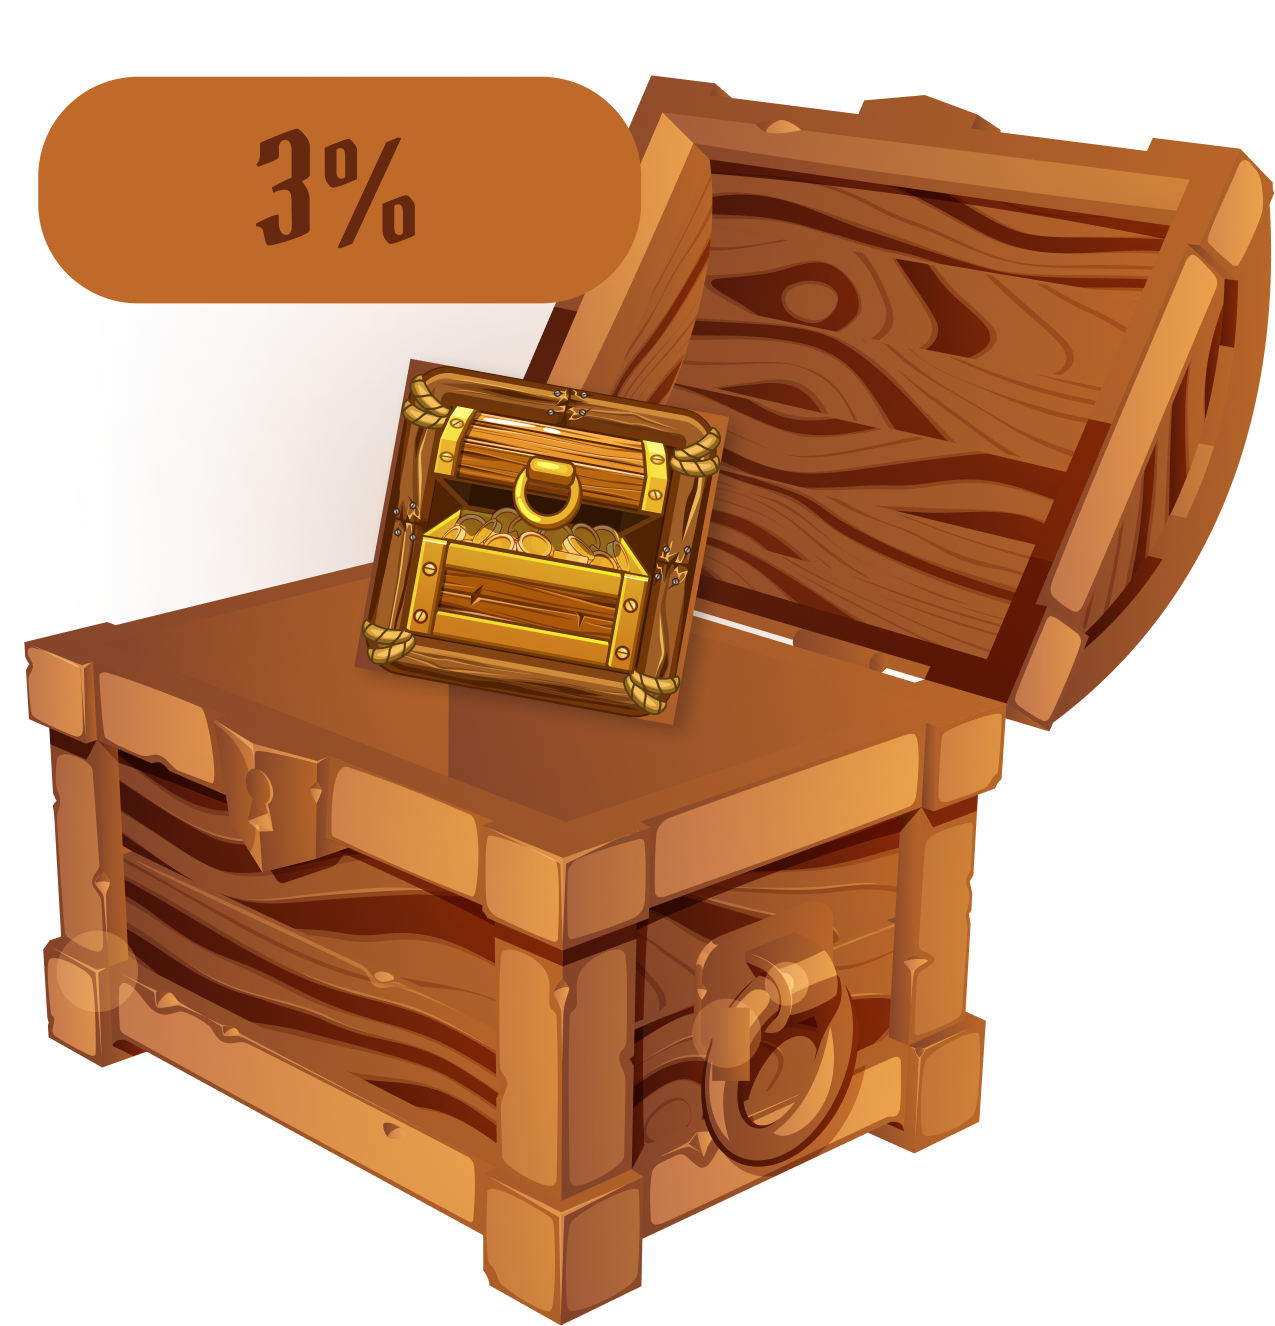
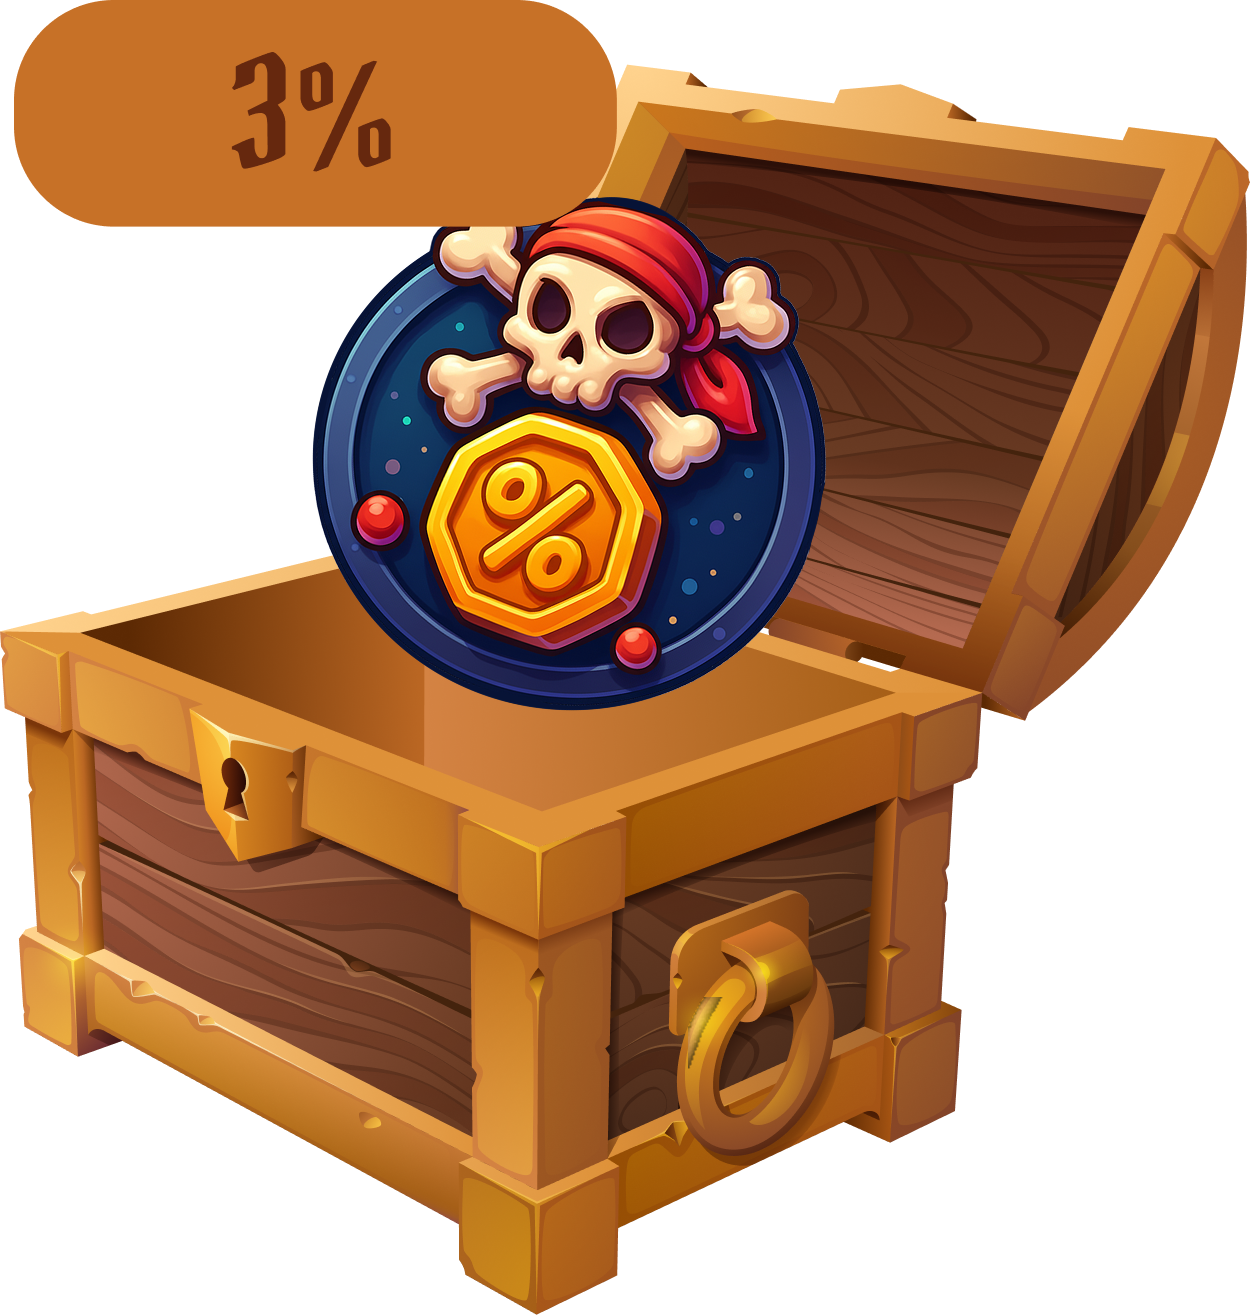
check isAuthenticated for showPirateTreasureHuntDialog and ptc image changes

diff --git a/lib/features/home/presentation/widgets/home_features_section.dart b/lib/features/home/presentation/widgets/home_features_section.dart
@@ -1,16 +1,20 @@
+import 'package:flutter_riverpod/flutter_riverpod.dart';
 import 'package:gigafaucet/core/common/common_text.dart';
 import 'package:gigafaucet/core/config/app_local_images.dart';
 import 'package:gigafaucet/core/extensions/context_extensions.dart';
+import 'package:gigafaucet/core/providers/auth_provider.dart';
+import 'package:gigafaucet/features/auth/presentation/widgets/dialog/login_required_dialog.dart';
 import 'package:gigafaucet/features/faucet/presentation/widgets/claim_faucet.dart';
 import 'package:gigafaucet/features/faucet/presentation/widgets/dialog/claim_your_faucet_dialog.dart';
 import 'package:gigafaucet/features/faucet/presentation/widgets/dialog/your_faucet_dialog.dart';
 import 'package:gigafaucet/features/home/presentation/widgets/home_section_container.dart';
 import 'package:flutter/material.dart';
 import 'package:gigafaucet/features/pirate_treasure_hunt/presentation/widgets/dialogs/pirate_treasure_hunt_dialog.dart';
+import 'package:gigafaucet/routing/app_router.dart';
 
 import '../../../fortune_wheel/presentation/widgets/fortune_wheel_widget.dart';
 
-class HomeFeaturesSection extends StatelessWidget {
+class HomeFeaturesSection extends ConsumerWidget {
   const HomeFeaturesSection({super.key});
 
   List<dynamic> get _featureItemsData {
@@ -62,7 +66,9 @@ class HomeFeaturesSection extends StatelessWidget {
   }
 
   @override
-  Widget build(BuildContext context) {
+  Widget build(BuildContext context, WidgetRef ref) {
+    final isAuthenticated = ref.watch(isAuthenticatedObservableProvider);
+
     return HomeSectionContainer(
       width: double.infinity,
       decoration: BoxDecoration(
@@ -112,7 +118,13 @@ class HomeFeaturesSection extends StatelessWidget {
                         });
                       } else if (feature['title'] == 'Pirate Treasure Hunt') {
                         // Show Pirate Treasure Hunt dialog
-                        showPirateTreasureHuntDialog(context);
+                        if (isAuthenticated) {
+                          showPirateTreasureHuntDialog(context);
+                        } else {
+                          showLoginRequiredDialog(context, onGoToLogin: () {
+                            context.go('/auth/login');
+                          });
+                        }
                       }
                     });
                   }).toList(),
